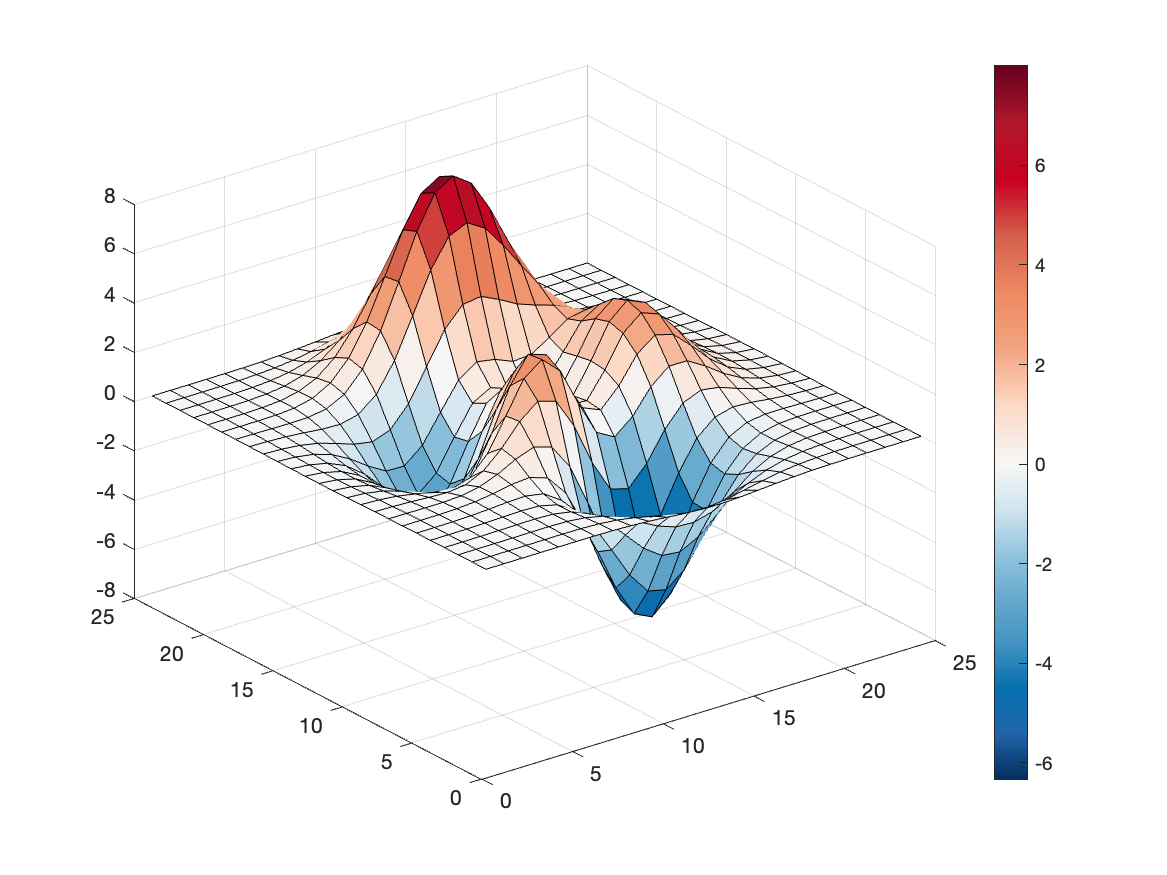
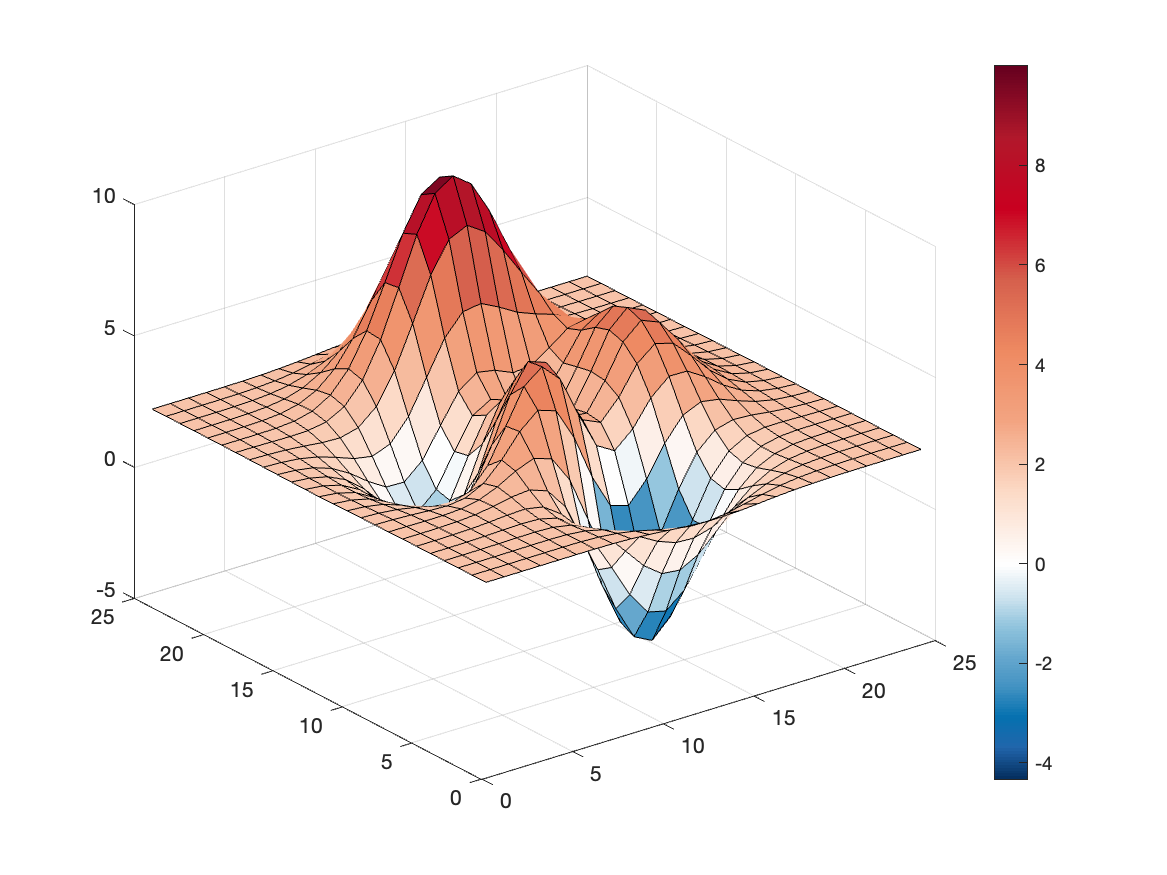
asymemtry

diff --git a/example.m b/example.m
@@ -2,13 +2,13 @@
 
 % Example 1
 figure;
-surf(peaks(25));
+surf(peaks(25)+2);
 colormap(centered), colorbar;
 saveas(gcf,'figures/example1.png');
 
 % Example 2
 figure;
-contourf(peaks(25),25,'linestyle','none'); 
+contourf(peaks(25)-2,25,'linestyle','none'); 
 colormap(centered('BrBg')), colorbar;
 saveas(gcf,'figures/example2.png');
 

diff --git a/README.md b/README.md
@@ -11,11 +11,13 @@ example file: `example.m`
 This package provides colormaps centered on the white color corresponding to zero. Just specify `centered`as an argument to a colormap to use the default centered colormap.
 
 ```
-surf(peaks(25));
+surf(peaks(25)+2);
 colormap(centered), colorbar
 ```
 
 <img src="figures/example1.png" alt="example1" width="500" />
+
+Even if the scale is asymmetric (positive), the palette has the color white centered on zero.
 
 The function takes different color palettes as arguments.
 
@@ -24,8 +26,10 @@ The function takes different color palettes as arguments.
 For example, we can use the `BrBg` palette.
 
 ```
-contourf(peaks(25),25,'linestyle','none'); 
+contourf(peaks(25)-2,25,'linestyle','none'); 
 colormap(centered('BrBg')), colorbar;
 ```
 
 <img src="figures/example2.png" alt="example2" width="500" />
+
+Again, even if the scale is asymmetric (negative), the palette has the color white centered on zero.
